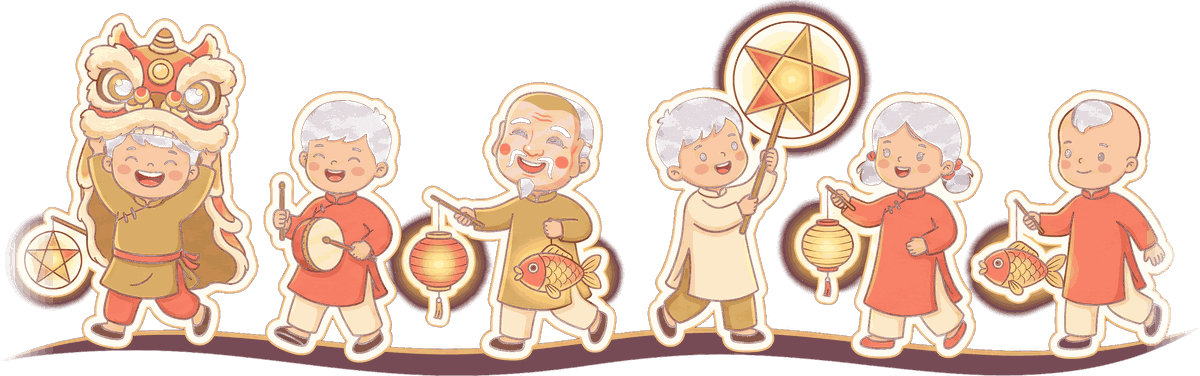
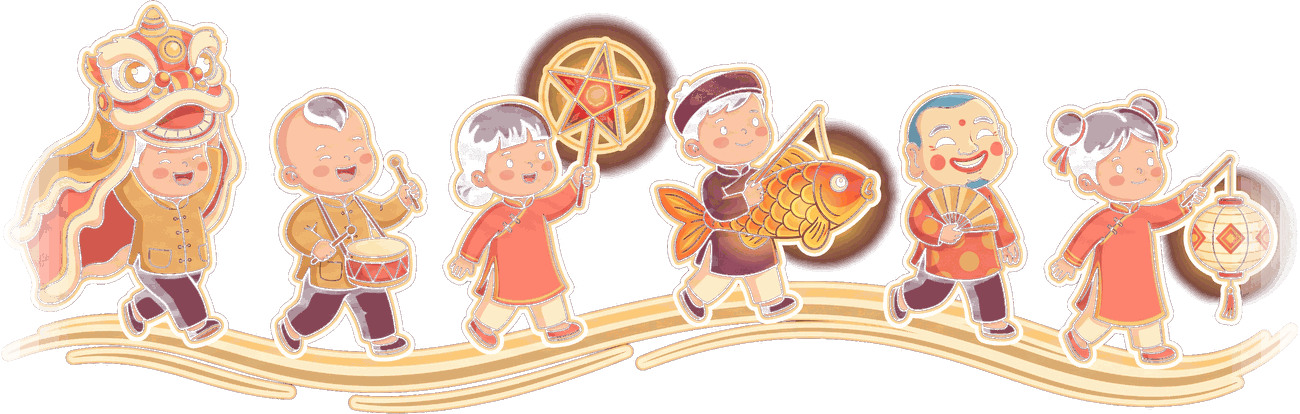
feat(customer): swap the lantern parade for variant B, centred and larger
Six different children on a thick gold wave (lion head, drum, star
lantern, carp lantern, fan, paper lantern). Centred in the hero and
~15% wider (39% of the carousel width). Cutout PNG, ~133 KB.

diff --git a/apps/banan_customer/lib/features/menu/menu_screen.dart b/apps/banan_customer/lib/features/menu/menu_screen.dart
@@ -1511,11 +1511,11 @@ class _HeroCarouselState extends ConsumerState<_HeroCarousel> {
                 // smudge under the headline.
                 if (width >= 700)
                   const Align(
-                    alignment: Alignment(0.2, 1),
+                    alignment: Alignment.bottomCenter,
                     child: Padding(
                       padding: EdgeInsets.only(bottom: BananSpacing.sm),
                       child: FractionallySizedBox(
-                        widthFactor: 0.34,
+                        widthFactor: 0.39,
                         child: Image(
                           image: AssetImage(fullmoonAutumnParadeAsset),
                           fit: BoxFit.contain,
